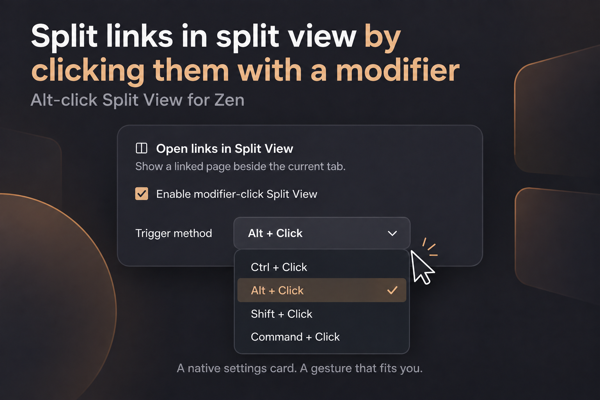
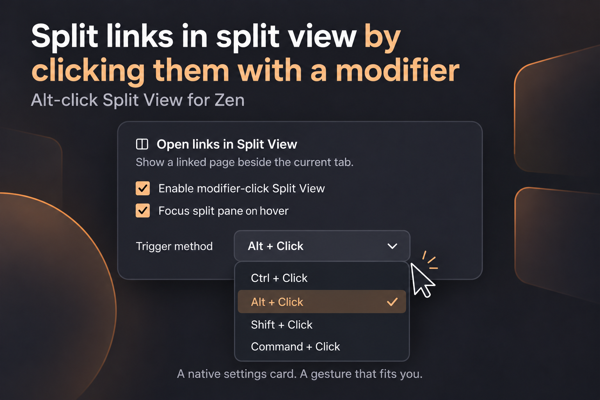
Add optional split pane hover focus with settings and preview

diff --git a/alt-click-split-view.uc.js b/alt-click-split-view.uc.js
@@ -1,7 +1,7 @@
 // ==UserScript==
 // @name           Alt-click Split View
 // @author         Kostiantyn Kugot
-// @version        1.3.0
+// @version        1.4.0
 // @description    Open Alt-clicked links in Zen Split View.
 // @include        chrome://browser/content/browser.xhtml
 // ==/UserScript==
@@ -9,6 +9,7 @@
 (() => {
   const ENABLED_PREF = 'uc.alt-click-split-view.enabled';
   const TRIGGER_PREF = 'uc.alt-click-split-view.trigger';
+  const HOVER_PREF = 'uc.alt-click-split-view.focus-on-hover';
   const MODIFIER_KEYS = Object.freeze({
     ctrl: 'ctrlKey',
     alt: 'altKey',
@@ -23,14 +24,52 @@
       Object.values(MODIFIER_KEYS).every(key => key === modifier || !data[key]);
   }
 
+  function installHoverFocus(win, prefs) {
+    let timer = 0, pendingPane = null;
+    const cancel = () => {
+      if (timer) win.clearTimeout(timer);
+      timer = 0;
+      pendingPane = null;
+    };
+    const allowed = () => prefs.getBoolPref(HOVER_PREF, false) && win.document.hasFocus() &&
+      win.gBrowser.tabpanels.getAttribute('zen-split-view') === 'true' &&
+      !win.document.documentElement.hasAttribute('customizing') &&
+      win.document.documentElement.getAttribute('inDOMFullscreen') !== 'true' &&
+      !win.gURLBar.focused && !win.gURLBar.view.isOpen &&
+      !win.document.querySelector('panel[panelopen="true"], menupopup[open="true"]') &&
+      !win.gZenGlanceManager?.getFocusedTab?.();
+    const move = event => {
+      if (event.buttons || !allowed()) { cancel(); return; }
+      const pane = event.target?.closest?.('.browserSidebarContainer[zen-split="true"]:not(.zen-glance-overlay)');
+      const browser = pane?.querySelector(':scope > .browserContainer > .browserStack > browser');
+      if (!browser || browser === win.gBrowser.selectedBrowser || pane.parentNode !== win.gBrowser.tabpanels) { cancel(); return; }
+      if (pane === pendingPane) return;
+      cancel();
+      pendingPane = pane;
+      timer = win.setTimeout(() => {
+        cancel();
+        if (!allowed() || !pane.isConnected || !pane.matches(':hover') || pane.getAttribute('zen-split') !== 'true') return;
+        const tab = win.gBrowser.getTabForBrowser(browser);
+        if (tab && !tab.closing) win.gBrowser.selectedTab = tab;
+      }, 150);
+    };
+    const exit = event => { if (!event.relatedTarget) cancel(); };
+    const events = [['mousemove', move], ['mouseout', exit], ['mousedown', cancel], ['keydown', cancel], ['dragstart', cancel], ['blur', cancel]];
+    for (const [name, handler] of events) win.addEventListener(name, handler, true);
+    return () => {
+      cancel();
+      for (const [name, handler] of events) win.removeEventListener(name, handler, true);
+    };
+  }
+
   if (typeof module !== 'undefined' && module.exports) {
-    module.exports = { shouldSplitLinkClick };
+    module.exports = { shouldSplitLinkClick, installHoverFocus };
     return;
   }
 
   window.AltClickSplitView?.destroy();
   const hookKey = '__altClickSplitViewHook';
-  let cleanup;
+  let cleanup, cleanupHover;
   const report = error => console.error('[Alt-click Split View]', error);
   const enabled = () => Services.prefs.getBoolPref(ENABLED_PREF, true);
   const trigger = () => Services.prefs.getStringPref(TRIGGER_PREF, 'alt');
@@ -116,6 +155,8 @@
   }
 
   function destroy() {
+    cleanupHover?.();
+    cleanupHover = null;
     cleanup?.();
     cleanup = null;
     window.removeEventListener('unload', destroy);
@@ -123,11 +164,12 @@
   }
 
   window.AltClickSplitView = { destroy };
-  for (const pref of [ENABLED_PREF, TRIGGER_PREF]) {
+  for (const pref of [ENABLED_PREF, TRIGGER_PREF, HOVER_PREF]) {
     Services.prefs.setBoolPref(`services.sync.prefs.sync.${pref}`, false);
     Services.prefs.setBoolPref(`services.sync.prefs.sync-seen.${pref}`, false);
   }
   window.addUnloadListener?.(destroy);
   window.addEventListener('unload', destroy, { once: true });
   cleanup = install();
+  cleanupHover = installHoverFocus(window, Services.prefs);
 })();

diff --git a/settings.uc.js b/settings.uc.js
@@ -1,17 +1,19 @@
-// Alt-click Split View settings · Kostiantyn Kugot · 1.3.0
+// Alt-click Split View settings · Kostiantyn Kugot · 1.4.0
 (() => {
   window.SplitLinkSettings?.destroy();
   const enabledPref = 'uc.alt-click-split-view.enabled';
   const triggerPref = 'uc.alt-click-split-view.trigger';
+  const hoverPref = 'uc.alt-click-split-view.focus-on-hover';
   const glanceEnabledPref = 'zen.glance.enabled';
   const glanceTriggerPref = 'zen.glance.activation-method';
-  const observedPrefs = [enabledPref, triggerPref, glanceEnabledPref, glanceTriggerPref];
+  const observedPrefs = [enabledPref, triggerPref, hoverPref, glanceEnabledPref, glanceTriggerPref];
   const html = (tag) => document.createElementNS('http://www.w3.org/1999/xhtml', tag);
-  let section, enabled, trigger, error;
+  let section, enabled, trigger, error, hover;
 
   function refresh() {
     if (!section) return;
     enabled.checked = Services.prefs.getBoolPref(enabledPref, true);
+    hover.checked = Services.prefs.getBoolPref(hoverPref, false);
     trigger.value = Services.prefs.getStringPref(triggerPref, 'alt');
     trigger.disabled = !enabled.checked;
     const conflict = enabled.checked && Services.prefs.getBoolPref(glanceEnabledPref, true) &&
@@ -65,7 +67,13 @@
       error.setAttribute('role', 'alert');
       error.setAttribute('aria-live', 'polite');
       trigger.setAttribute('aria-describedby', error.id);
-      fieldset.append(toggleLabel, row, error);
+      const hoverLabel = html('label');
+      hover = html('input');
+      hover.type = 'checkbox';
+      hover.id = 'split-link-hover';
+      hover.addEventListener('change', () => Services.prefs.setBoolPref(hoverPref, hover.checked));
+      hoverLabel.append(hover, ' Focus split pane on hover');
+      fieldset.append(toggleLabel, row, hoverLabel, error);
       card.append(fieldset);
       section.append(card);
       enabled.addEventListener('change', () => Services.prefs.setBoolPref(enabledPref, enabled.checked));

diff --git a/README.md b/README.md
@@ -2,6 +2,8 @@
 
 Follow a link without losing your place. Hold **Alt** and click a link to open it beside the page you are reading.
 
+Enable **Focus split pane on hover** in Sine or Zen's Tabs and browsing settings to activate the pane under your pointer after 150ms, without clicking. It is disabled by default and works independently of the modifier-click switch. URL editing, open menus, Glance, dragging and inactive windows suspend hover activation. Disable the equivalent Blended Addressbar option if using both mods to avoid duplicate hover handlers.
+
 ![Choose your modifier-click shortcut in a native Zen settings card](marketplace-preview.png)
 
 *Illustration of the added settings: an enable switch and a choice of click modifier. Marketplace preview: 600 × 400 pixels.*

diff --git a/CHANGELOG.md b/CHANGELOG.md
@@ -1,5 +1,9 @@
 # Changelog
 
+## 1.4.0 · 2026-10-02
+
+- Add optional Focus split pane on hover in both Sine and Zen settings, disabled by default. Select a pane after 150ms; suspend during URL editing, open menus, Glance, dragging, and inactive windows.
+
 ## 1.3.0 · 2026-09-20
 
 - Show a live Glance shortcut-conflict error in Tabs and browsing and suspend Split View interception until the conflict is resolved.
